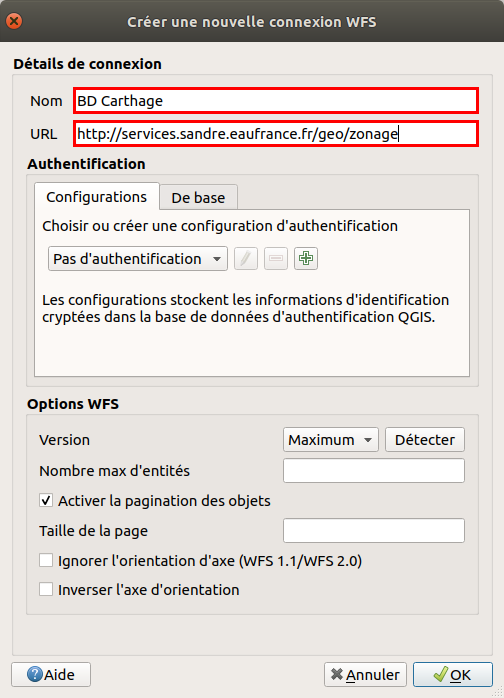
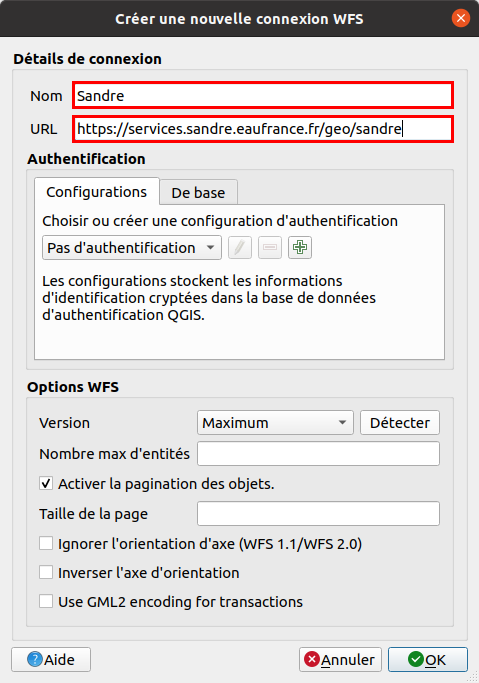
correction lien WMS + ajout WMS via explorateur

diff --git a/03_02_donnees_flux (copie).php b/03_02_donnees_flux (copie).php
@@ -17,9 +17,8 @@
 					<li><a href="#III21">Qu'est-ce qu'un flux WMS ou WFS ?</a></li>
 					<li><a href="#III22">Ajout de données via un flux WMS : carte géologique</a></li>
 					<li><a href="#III23">Ajout de données via un flux WFS : cours d'eau</a></li>
-					<li><a href="#III24">Ajout de données WMS ou WFS via le panneau explorateur</a></li>
-					<li><a href="#III25">Avantages et inconvénients des flux</a></li>
-					<li><a href="#III26">Quelques adresses de flux WMS et WFS</a></li>
+					<li><a href="#III24">Avantages et inconvénients des flux</a></li>
+					<li><a href="#III25">Quelques adresses de flux WMS et WFS</a></li>
 				</ul>
 	
 			
@@ -83,83 +82,57 @@
 			<h3>Ajout de données via un flux WFS : cours d'eau<a class="headerlink" id="III23" href="#III23"></a></h3>
 			
 				<p>Le but va être ici d'ajouter une couche WFS de cours d'eau disponible via le <a class="ext" target="_blank" href="https://www.sandre.eaufrance.fr/">Sandre</a> (Service d'Administration Nationale des Données et Référentiels sur l'Eau). Les adresses des flux du Sandre sont disponible sur <a class="ext" target="_blank" href="https://www.sandre.eaufrance.fr/actualite/evolution-des-services-web-g%C3%A9ographiques" >cette page</a>.</p>
-				<p>Cette opération est similaire à celle décrite ci-dessus pour une couche WMS.</p>
+				<p>Cette opération est similaire à celle décrite ci-dessus pour une couche WMS. Pour changer un peu, nous n'allons pas cette fois utiliser le gestionnaire de sources de données mais le panneau Explorateur.</p>
+				<p>L'ajout de connexions et de couches WMS et WFS peut se faire par l'une ou l'autre méthode&nbsp;; le gestionnaire de sources de données permet plus de paramétrage, notamment le choix du SCR, et le panneau explorateur est plus rapide.</p>
 				
 				<div class="manip">
-				    <p>Cliquez sur l'icône du gestionnaire des sources de données, rubrique <b>WFS / OGC API - Features</b>&nbsp;:</p>
-				    <figure>
-						<a href="illustrations/tous/3_2_ajout_wfs_fenetre.png" >
-							<img src="illustrations/tous/3_2_ajout_wfs_fenetre.png" alt="Fenêtre du gestionnaire de sources de données, rubrique WFS" width="600" >
+				    <p>Allez dans le <a href="01_02_info_geo.php#I21b">panneau Exporateur</a>. Si ce panneau n'est pas visible, activez-le dans le Menu Vue &#8594; Panneaux &#8594; Panneau Explorateur.</p>
+				    <p>Faites un clic droit sur <b>WFS / OGS API - Features &#8594; Nouvelle connexion...</b></p>
+					<figure>
+						<a href="illustrations/tous/3_2_wfs_connexion_explo.png" >
+							<img src="illustrations/tous/3_2_wfs_connexion_explo.png" alt="Clic droit sur WFS dans l'explorateur, nouvelle connexion" width="350" >
 						</a>
 					</figure>
-					<p>Cliquez sur le bouton <b>Nouveau</b> pour créer une nouvelle connexion. La fenêtre suivante apparaît&nbsp;:</p>
 					<figure>
-						<a href="illustrations/tous/3_2_wfs_nouveau.png" >
-							<img src="illustrations/tous/3_2_wfs_nouveau.png" alt="Fenêtre de création d'une nouvelle connexion WFS (gestionnaire de sources de données)" width="400" >
+						<a href="illustrations/tous/3_2_ajout_wfs_fenetre.png" >
+							<img src="illustrations/tous/3_2_ajout_wfs_fenetre.png" alt="Fenêtre d'ajout d'une connexion WFS" width="400" >
 						</a>
 					</figure>
 					<ul>
 					   <li class="espace">Nom&nbsp;: tapez le nom de votre choix, par exemple <b>Sandre</b></li>
 					   <li class="espace">URL&nbsp;: tapez l'adresse <b>https://services.sandre.eaufrance.fr/geo/sandre</b></li>
 					</ul>
-					
-					<p class="note">Cette url est disponible <a href="https://www.sandre.eaufrance.fr/actualite/evolution-des-services-web-g%C3%A9ographiques" >sur le site du Sandre</a>.</p>
-					<p>Laissez les autres paramètres tels quels et cliquez sur OK. Vous voilà à nouveau dans la fenêtre d'ajout d'une couche WFS&nbsp;:</p>
-					
+					<p>Cliquez sur <b>OK</b>&nbsp;: la connexion est maintenant visible dans le panneau Explorateur.</p>
 					<figure>
-						<a href="illustrations/tous/3_2_wfs_connexion.png" >
-							<img src="illustrations/tous/3_2_wfs_connexion.png" alt="Fenêtre du gestionnaire de source de données : connexion au Sandre et choix de la couche de cours d'eau" width="600" >
+						<a href="illustrations/tous/3_2_wfs_connexion_explo_res.png" >
+							<img src="illustrations/tous/3_2_wfs_connexion_explo_res.png" alt="Connexion 'Sandre' visible dans la rubrique WFS du panneau explorateur" width="190" >
 						</a>
 					</figure>
+					<p>Il ne vous reste plus qu'à cliquer sur le petit triangle devant Sandre et à trouver la couche</p>
+					
 					<ul>
 						<li class="espace">Après avoir vérifier que votre connexion est bien sélectionnée dans la liste déroulante en haut de la fenêtre, cliquez sur <b>Connexion</b></li>
-						<li class="espace">En vous aidant éventuellement d'un filtre (<b>plans</b>), sélectionnez la couche correspondant aux <b>Plans d'eau - Métropole - BD Carthage</b></li>
-						<li class="espace">Vérifiez que le SCR soit bien le Lambert 93 RGF93 (code EPSG 2154) afin que toutes nos couches aient le même SCR, en cliquant éventuellement sur le bouton <b>Changer...</b></li>
+						<li class="espace">Sélectionnez la couche correspondant aux <b>cours d'eau métropole de plus de 100km (CoursEau1) (il faut descendre un peu dans la liste des couches proposées)</b></li>
+						<li class="espace">Vérifiez que le SCR soit bien le Lambert 93 RGF93 (code EPSG 2154) afin que toutes nos couches aient le même SCR, en cliquant éventuellement sur le bouton <b>Modifier...</b></li>
 						<li class="espace">Cliquez sur <b>Ajouter</b></li>
 					</ul>
 					<p>Vous devriez obtenir quelque chose de similaire à ceci :</p>
 					<figure>
 						<a href="illustrations/tous/3_2_superposition_creuse_courdo.png" >
-							<img src="illustrations/tous/3_2_superposition_creuse_courdo.png" alt="superposition du département de la Creuse, de la carte géol et des plans d'eau" width="350" >
+							<img src="illustrations/tous/3_2_superposition_creuse_courdo.png" alt="superposition du département de la Creuse et des cours d'eau de plus de 100km" width="300" >
 						</a>
 					</figure>
-					<p>Il peut être nécessaire de changer l'ordre des couches en les faisant glisser dans la table des matières, et de <a href="01_02_info_geo.php#I23a">modifier le style</a> de la couche du département de la Creuse. Vu qu'il s'agit ici d'un flux WFS et non WMS, il est également possible de modifier le style des cours d'eau. La carte géologique étant une couche WMS, on ne peut modifier son style mais il est possible de lui donner une <b>transparence</b> afin de l'atténuer.</p>
+					<p>Il peut être nécessaire de changer l'ordre des couches en les faisant glisser dans la table des matières, et de <a href="01_02_info_geo.php#I23a">modifier le style</a> de la couche du département de la Creuse. Vu qu'il s'agit ici d'un flux WFS et non WMS, il est également possible de modifier le style des cours d'eau. La carte géologique étant une couche WMS, on ne peut modifier son style mais il est possible de lui donner une transparence afin de l'atténuer.</p>
 				</div>
-				<p>De même, s'agissant d'un flux WFS, il est possible de <b>sauvegarder les cours d'eau</b> au format vectoriel sur votre ordinateur : clic droit sur la couche &#8594; Exporter &#8594; Sauvegarder les entités sous...</p>
+				<p>De même, s'agissant d'un flux WFS, il est possible de sauvegarder les cours d'eau au format shapefile : clic droit sur la couche, Exporter, Sauvegarder les entités sous...</p>
 	
-			<h3>Ajout de données WMS ou WFS via le panneau explorateur<a class="headerlink" id="III24" href="#III24"></a></h3>
-			
-			 <p>Une autre méthode, plus rapide, pour créer des connexions et ajouter des couches WMS et WFS est de passer par le <a href="01_02_info_geo.php#I21b">panneau explorateur</a>.</p>
-			 <p>Cependant, cette méthode ne permet pas autant de paramétrage que le gestionnaire de sources de données&nbsp;: par exemple, il n'est pas possible de choisir le SCR d'une couche.</p>
-			 <p>Nous allons voir ici comment ajouter une couche de mines accessible via la connexion aux flux WMS du BRGM créée <a href="03_02_donnees_flux.php#III22" >plus haut</a>, en utilisant le panneau explorateur.</p>
-			 
-			 <div class="manip">
-			     <p>Le <a href="01_02_info_geo.php#I21b">panneau explorateur</a> permet de charger rapidement des couches, en explorant vos dossiers sur votre ordinateur mais aussi vos connexions à des flux ou des bases de données.</p>
-			     <p>Si vous ne le voyez pas, activez-le dans le Menu Vue &#8594; Panneaux &#8594; Panneau Explorateur.</p>
-			     <p>Dépliez la rubrique <b>WMS/WMTS</b> en cliquant sur le petit triangle, puis <b>BRGM &#8594; Géoservices... &#8594; Mines</b> et double-cliquer sur <b>Mines Substances principales - Points</b> pour l'ajouter à QGIS.</p>
-			     <figure>
-					<a href="illustrations/tous/3_2_explorateur_mines.png" >
-						<img src="illustrations/tous/3_2_explorateur_mines.png" alt="Ajout de la couche WMS de mines du BRGM via l'explorateur" width="350" >
-					</a>
-				</figure>
-				<p>La légende de la couche est lisible dans la liste des couches&nbsp;:</p>
-				<figure>
-					<a href="illustrations/tous/3_2_superposition_creuse_courdo_mines.png" >
-						<img src="illustrations/tous/3_2_superposition_creuse_courdo_mines.png" alt="superposition du département de la Creuse, de la carte géol, des plans d'eaux et des mines avec la légende" width="600" >
-					</a>
-				</figure>
-			 </div>
-			 
-			 <p>Attention, si la couche avait été par défaut dans un autre SCR que celui du projet et des autres couches (Lambert 93), il y aurait eu des problèmes d'affichage. Il vaut mieux dans ce cas passer par le gestionnaire de sources de données pour spécifier le SCR voulu, s'il est disponible.</p>
-			
-			
-			<h3>Avantages et inconvénients des flux<a class="headerlink" id="III25" href="#III25"></a></h3>
+			<h3>Avantages et inconvénients des flux<a class="headerlink" id="III24" href="#III24"></a></h3>
 				
 				<p>Un inconvénient d'utiliser des flux est le temps de chargement et la nécessité d'avoir une connexion internet.</p>
 				<p>Cependant, ils vous assurent de toujours visualiser la dernière mise à jour des données, vous évitent d'encombrer vos ordinateurs et vous permettent de transmettre des projets QGS à des collègues en étant sûr que ceux-ci puissent en visualiser les données (s'ils sont connectés à internet).</p>
 				<p>En résumé, c'est probablement l'usage que vous ferez des données qui vous fera opter pour l'une ou l'autre solution.</p>
 				
-			<h3>Quelques adresses de flux WMS et WFS<a class="headerlink" id="III26" href="#III26"></a></h3>
+			<h3>Quelques adresses de flux WMS et WFS<a class="headerlink" id="III25" href="#III25"></a></h3>
 			
 			    <p>Vous pouvez trouver <a class="ext" target="_blank" href="https://github.com/igeofr/qgis2/tree/master/flux">ici</a> une liste de flux WFS et WMS, créée par l'utilisateur github <a class="ext" target="_blank" href="https://github.com/igeofr">igeofr</a>.</p>
 			    <p>Vous pouvez soit ajouter ces flux manuellement, un par un, comme décrit plus haut, en copiant l'url, soit tous les ajouter en même temps. Pour cela, par exemple pour les flux WFS, collez le contenu entier du fichier QGIS_WFS.xml dans un fichier texte vierge, enregistrez ce fichier sous le nom QGIS_WFS.xml. Ensuite, dans QGIS : gestionnaire de sources &#8594; WFS&#8594; Charger &#8594; sélectionnez le fichier XML, et choisissez les flux que vous souhaitez ajouter.</p>

diff --git a/01_02_info_geo.php b/01_02_info_geo.php
@@ -90,7 +90,7 @@
     				
     				    <div class="manip">
     					
-    						<p>Une autre méthode, peut-être plus pratique, consiste à utiliser l'explorateur de fichiers&#160;: activez-le éventuellement dans le menu
+    						<p>Une autre méthode, peut-être plus pratique, consiste à utiliser l'explorateur de fichiers&#160;: activez-le éventuellement dans le 
     						<a class="thumbnail_bottom" href="#thumb">Menu Vue &#8594; Panneaux &#8594; Panneau Explorateur
                             	<span>
                             		<img src="illustrations/tous/1_2_explorateur_menu.png" alt="menu Vue → Panneaux → Explorateur" height="700" >
